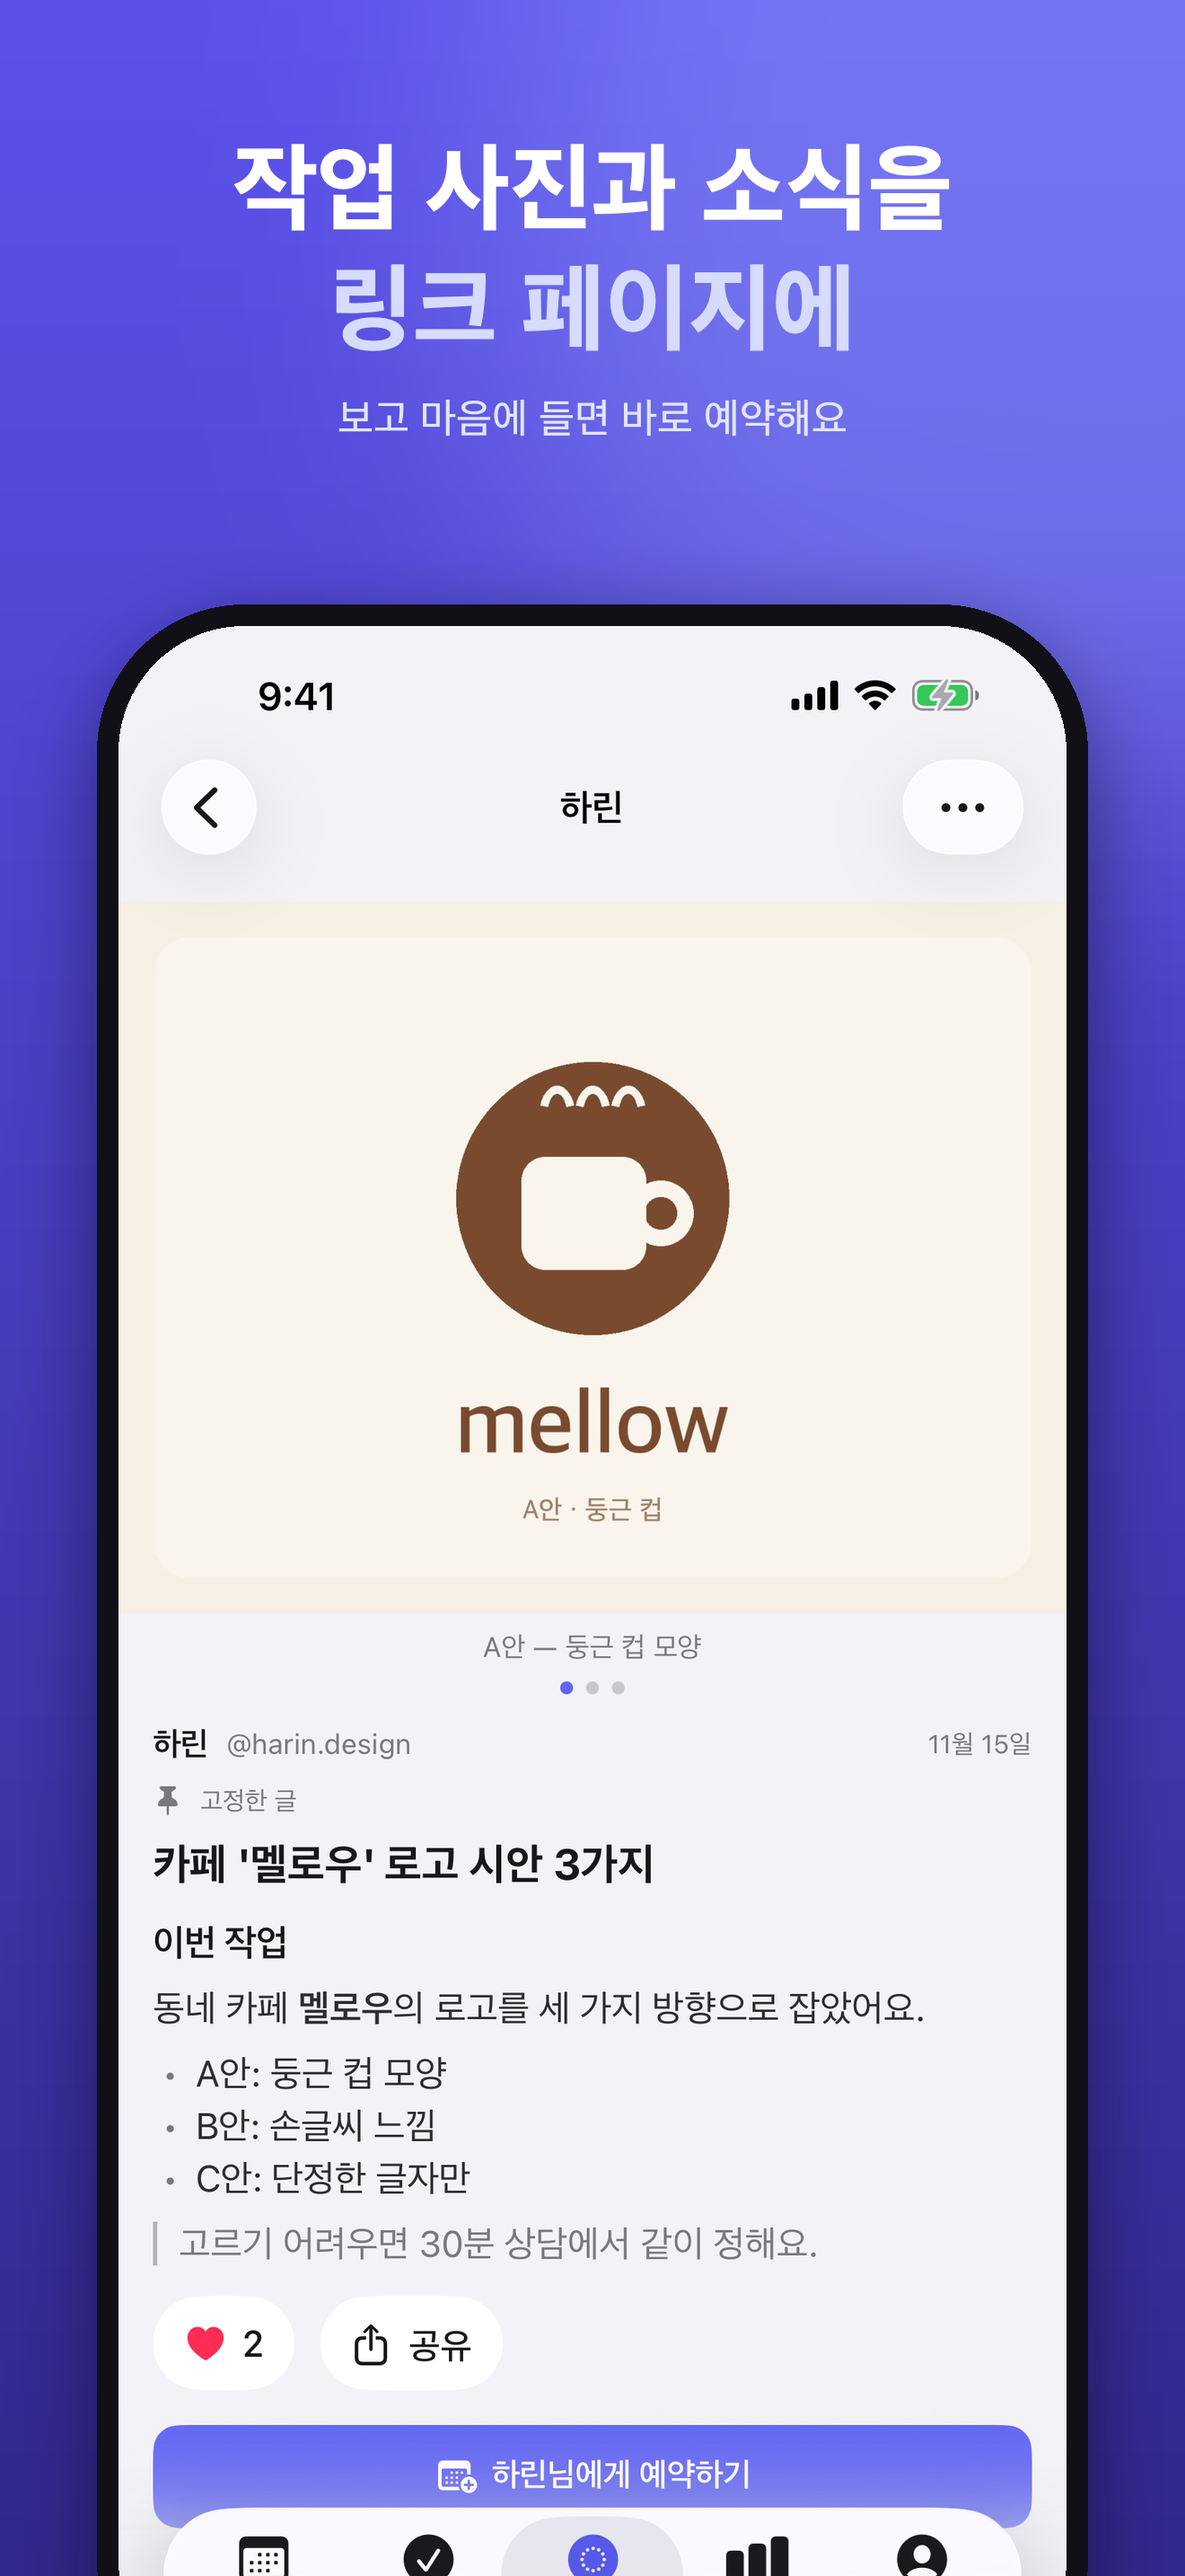
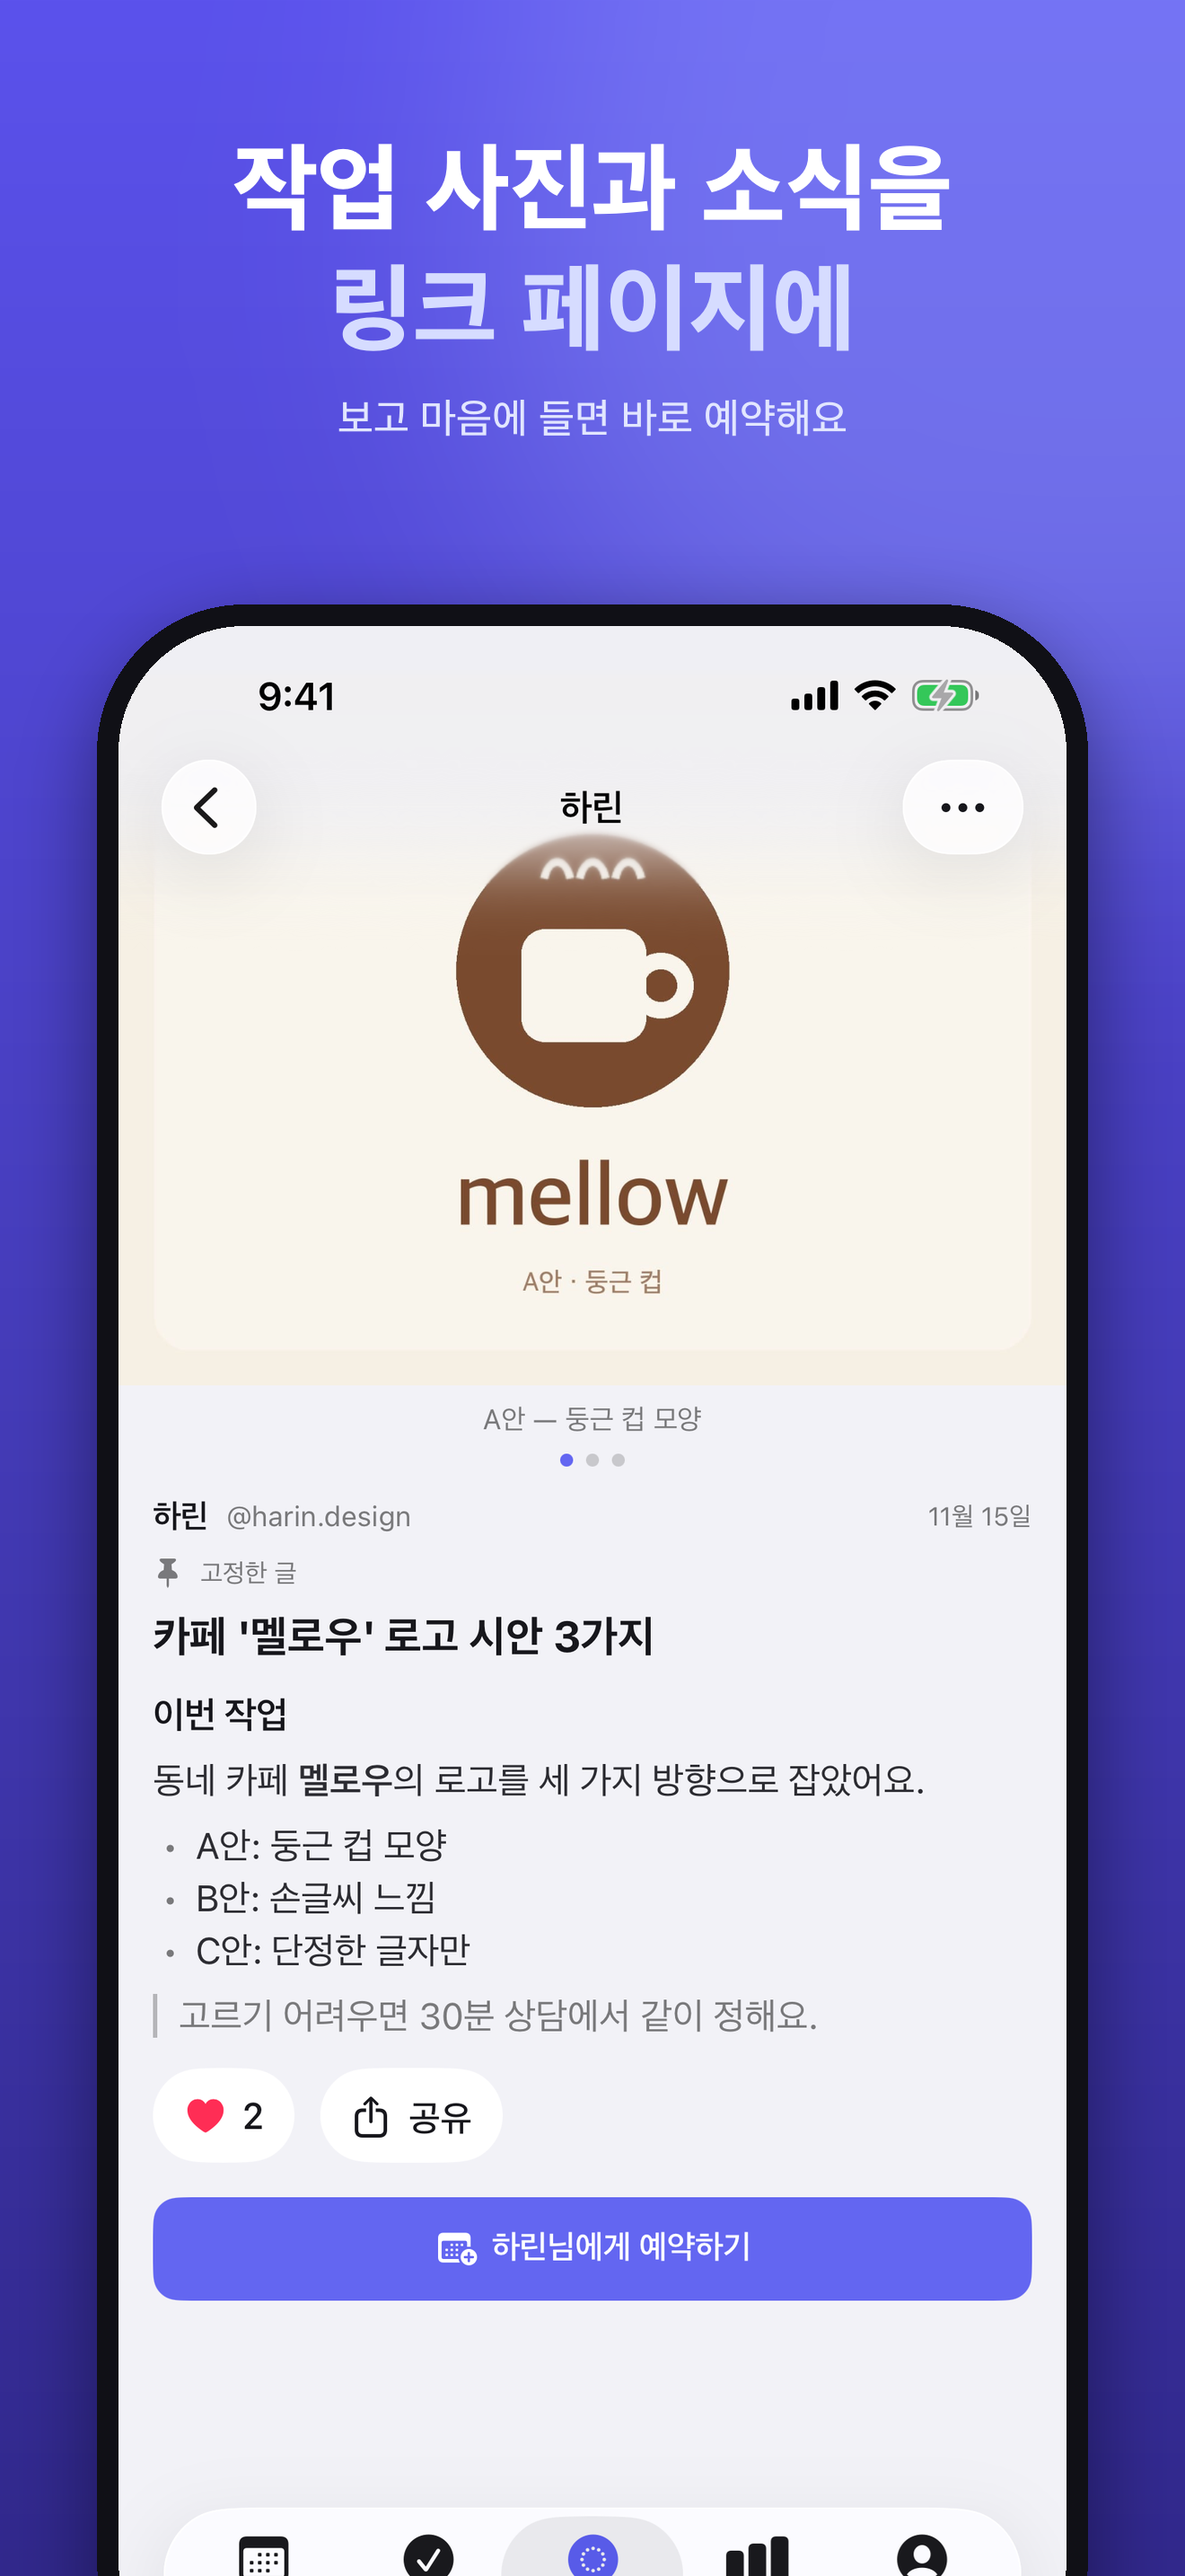
chore(ios 1.10.0): 스토어 스크린샷 다시 찍음 — '예약하기' 버튼이 탭 막대에 안 가리게 조금 올린 상태(PO 11/15)
Claude-Session: https://claude.ai/code/session_016c5dTfpFaDg3VZE8k7qibs

diff --git a/ios/Orbit42UITests/StoreShots110UITests.swift b/ios/Orbit42UITests/StoreShots110UITests.swift
@@ -33,6 +33,17 @@ final class StoreShots110UITests: XCTestCase {
         tile.tap()
         XCTAssertTrue(app.buttons["postLike"].waitForExistence(timeout: 15))
         sleep(6) // 사진 불러오기
+        // PO 11/15: '하린님에게 예약하기'가 탭 막대에 가리지 않게 조금 올린 상태로(관성 없이 끌기)
+        let from = app.coordinate(withNormalizedOffset: CGVector(dx: 0.5, dy: 0.62))
+        from.press(forDuration: 0.15, thenDragTo: app.coordinate(withNormalizedOffset: CGVector(dx: 0.5, dy: CGFloat(Double(env["SHOT_LIFT"] ?? "0.52") ?? 0.52))))
+        sleep(2)
+        let book = app.buttons["postBook"]
+        XCTAssertTrue(book.exists, "예약하기 버튼 없음")
+        let bar = app.tabBars.firstMatch
+        if bar.exists && bar.frame.minY > app.frame.midY {
+            XCTAssertLessThan(book.frame.maxY, bar.frame.minY - 12, "예약하기가 탭 막대에 가림")
+        }
+        XCTAssertLessThan(book.frame.maxY, app.frame.height * 0.95, "예약하기가 화면 아래 끝에 붙음")
         let shot = app.screenshot()
         let a = XCTAttachment(screenshot: shot); a.name = "posts"; a.lifetime = .keepAlways; add(a)
         if let dir = env["SHOT_DIR"] {
